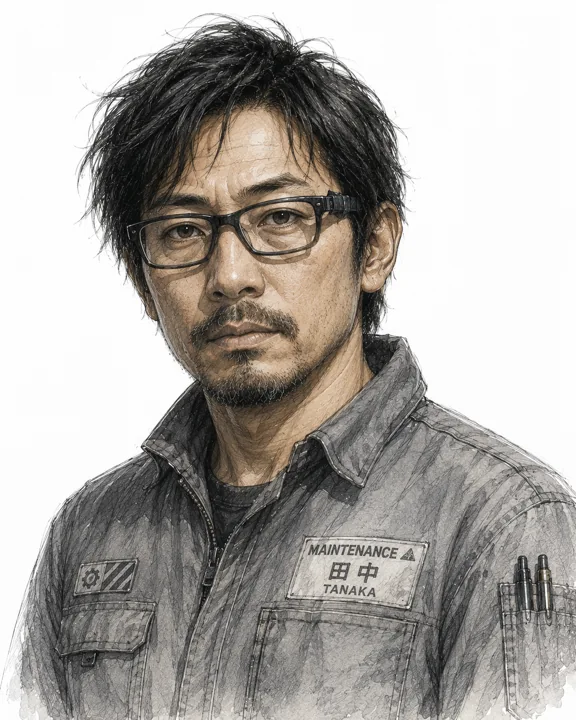
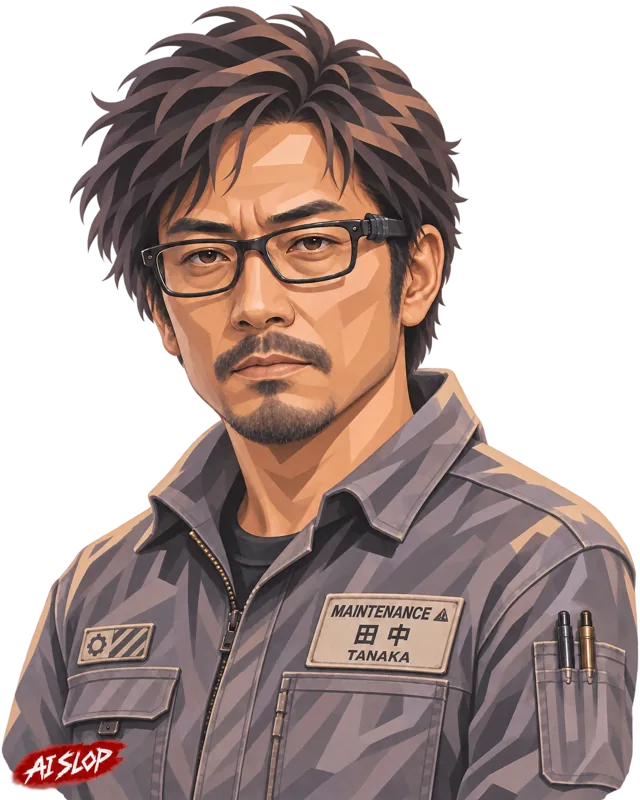
Publish approved NPC portraits

diff --git a/contacts.js b/contacts.js
@@ -151,7 +151,7 @@
       const isGroupLogo = entry.type === 'group';
       img.loading = isGroupLogo ? 'eager' : 'lazy';
       img.decoding = isGroupLogo ? 'sync' : 'async';
-      img.src = isGroupLogo ? entry.portrait + '?v=20261030-logo-final2' : entry.id === 'risto-vero' ? entry.portrait + '?v=20261114-portrait-fix1' : entry.portrait;
+      img.src = isGroupLogo ? entry.portrait + '?v=20261030-logo-final2' : entry.portrait + '?v=20261114-npc-final1';
       img.addEventListener('error', () => img.remove(), { once: true });
       frame.appendChild(img);
     }

diff --git a/contacts.html b/contacts.html
@@ -67,6 +67,6 @@
   </main>
   <script src="player-routes.js?v=20261021-equipment3"></script>
   <script src="player-shell.js?v=20261014-warden-shortcut1"></script>
-  <script src="contacts.js?v=20261114-portrait-fix1"></script>
+  <script src="contacts.js?v=20261114-npc-final1"></script>
 </body>
 </html>
